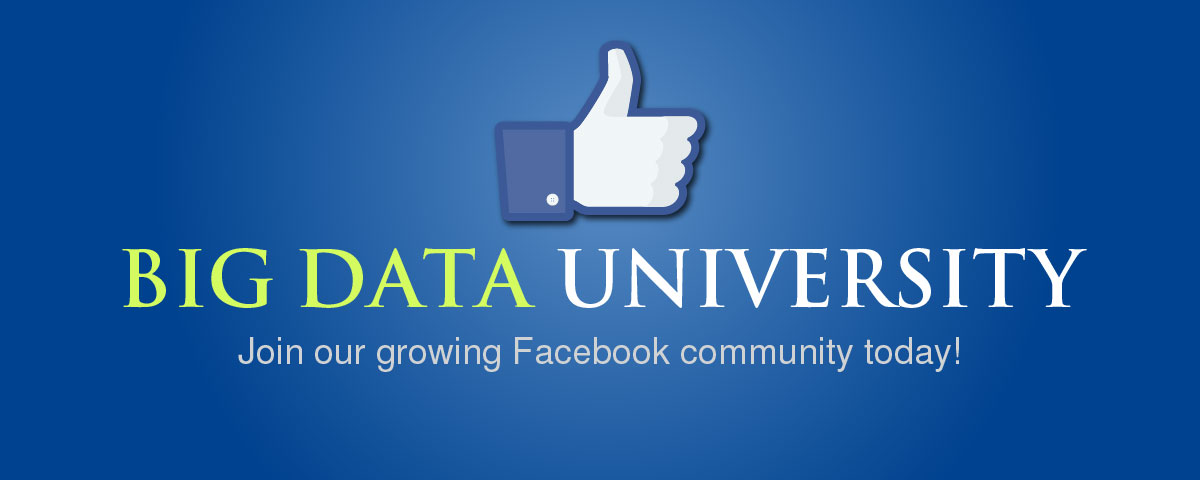
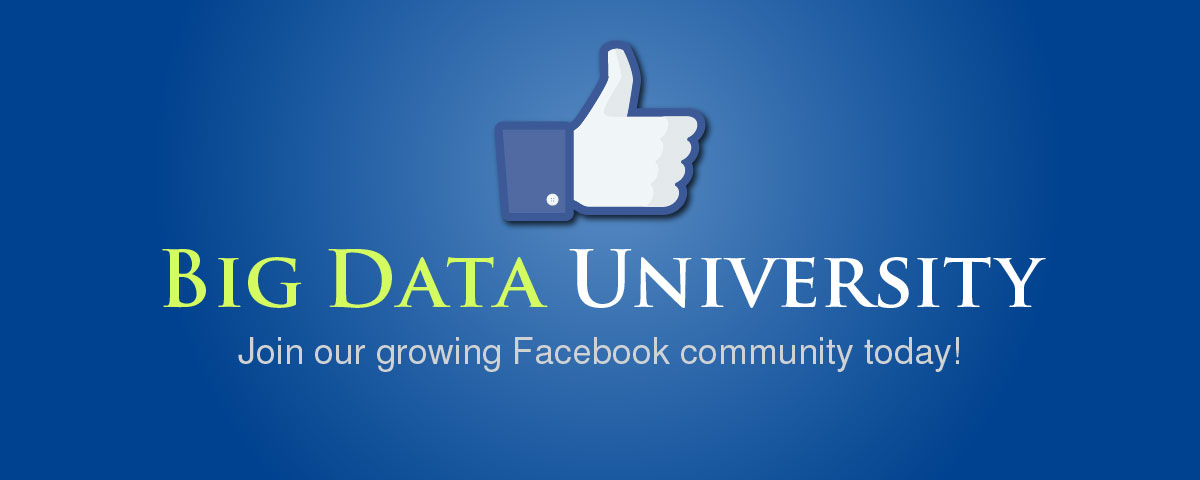
Fine-tune the details in the layout

Changed region(s): [[0.0925, 0.5, 0.925, 0.6562]]

diff --git a/public/css/styles.css b/public/css/styles.css
@@ -142,14 +142,6 @@ only screen and (     -o-min-device-pixel-ratio: 2/1) {
     display: block;
     margin: 0 auto;
   }
-
-  /* center align subhead text like the masthead */
-  /*
-  .subhead h1,
-  .subhead p {
-    text-align: center;
-  }
-  */
 }
 
 /* Landscape phones
@@ -169,6 +161,26 @@ h2, h3 {
   margin-left: 0;
 }
 
+.navbar .brand {
+  padding: 8px 20px 10px;
+}
+
 .form-search {
-  margin: 20px 0;
+  margin: 10px 0;
+}
+
+footer .navbar .nav {
+  float: none;
+  width: 400px;
+  margin: 0 auto;s
+}
+
+.sub-jumbotron {
+  background: #F4F5E9;
+  padding-bottom: 20px;
+  margin-bottom: 10px;
+}
+
+.navbar .nav > li.omega > a {
+  padding-right: 0;
 }
